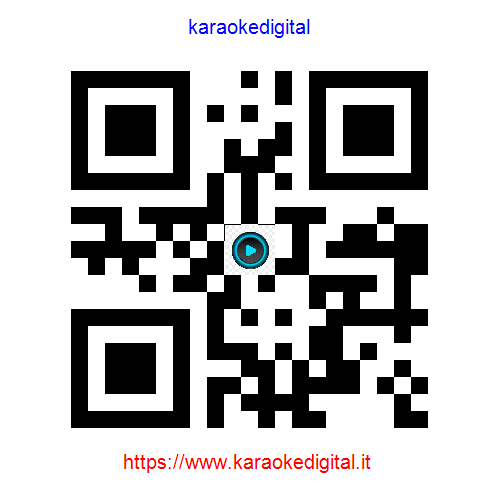
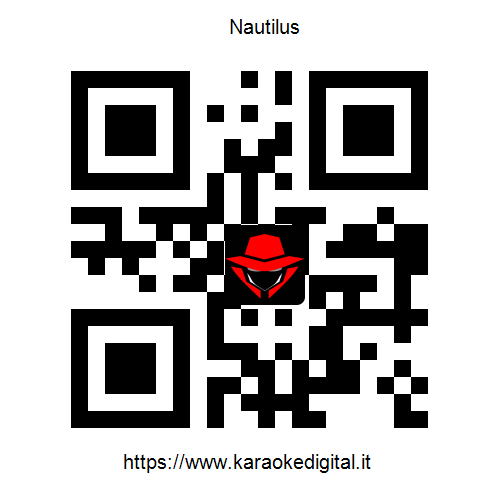
creata visualizzazione e download customer qr code

Changed region(s): [[0.24, 0.9, 0.75, 0.96], [0.45, 0.45, 0.63, 0.63], [0.36, 0.03, 0.63, 0.09]]

diff --git a/BL/BusinessLogic.cs b/BL/BusinessLogic.cs
@@ -678,7 +678,7 @@ namespace BL
 
             Image backImg = Image.FromFile(qrImgPath);
             Image logoImg = Image.FromFile(logoImgPath);
-            var logo = new Bitmap(logoImg, new Size(50, 50));
+            var logo = new Bitmap(logoImg, new Size(80, 80));
             Graphics g = Graphics.FromImage(backImg);
 
 
@@ -688,10 +688,10 @@ namespace BL
             
             
 
-            string firstText = "karaokedigital";
+            string firstText = customer.Society;
             string secondText = "https://www.karaokedigital.it";
 
-            PointF firstLocation = new PointF(backImg.Width / 2 - 65, 15f);
+            PointF firstLocation = new PointF(((backImg.Width / 2) - (customer.Society.Length * 3)), 15f);
             PointF secondLocation = new PointF(120f, backImg.Height - 50f);
 
             string imageFilePath = path + @"\QR" + customer.Society + ".png";
@@ -703,8 +703,8 @@ namespace BL
                 {
                     using (Font arialFont = new Font("Arial", 15))
                     {
-                        graphics.DrawString(firstText, arialFont, Brushes.Blue, firstLocation);
-                        graphics.DrawString(secondText, arialFont, Brushes.Red, secondLocation);
+                        graphics.DrawString(firstText, arialFont, Brushes.Black, firstLocation);
+                        graphics.DrawString(secondText, arialFont, Brushes.Black, secondLocation); 
                         
                     }
                 }

diff --git a/Karaokedigital/Controllers/OwnerController.cs b/Karaokedigital/Controllers/OwnerController.cs
@@ -210,8 +210,46 @@ namespace Karaokedigital.Controllers
             string path = _iweb.WebRootPath;
             bl.CreateCustomerQR(bl.GetCustomers(new Customer { CustomerID = id }).Single(),path);
 
-           
-            return View();
+
+            return RedirectToAction("EditCustomer", new { id = id });
+
+        }
+
+
+        public IActionResult DownloadQRCode(string society)
+        {
+
+            var memory = DownloadSinghFile("QR" + society + ".png", _iweb.WebRootPath + @"\Images\Customers\" + society);
+
+            return File(memory.ToArray(), "image/png", "qr.png");
+
+        }
+
+        private MemoryStream DownloadSinghFile(string filename, string uploadPath)
+
+        {
+
+            var path = Path.Combine(Directory.GetCurrentDirectory(), uploadPath, filename);
+
+            var memory = new MemoryStream();
+
+            if (System.IO.File.Exists(path))
+
+            {
+
+                var net = new System.Net.WebClient();
+
+                var data = net.DownloadData(path);
+
+                var content = new System.IO.MemoryStream(data);
+
+                memory = content;
+
+            }
+
+            memory.Position = 0;
+
+            return memory;
 
         }
 
